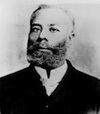
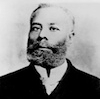
all images are 100by 100

diff --git a/index.html b/index.html
@@ -32,7 +32,7 @@
 <script id="home-tpl" type="text/x-handlebars-template">
     <div data-role="header" data-position="fixed"><h1>Question {{id}} of 11</h1></div>
     <div class="content">
-      <p><image class='question-image' src='img/{{qimage}}' />
+      <p><image class='question-image' src='img/{{qimage}}' width='100' height='100'/>
         {{qtext}}<br style="clear: both;" /></p>
       <div>
         <span class='answer-list'></span>
